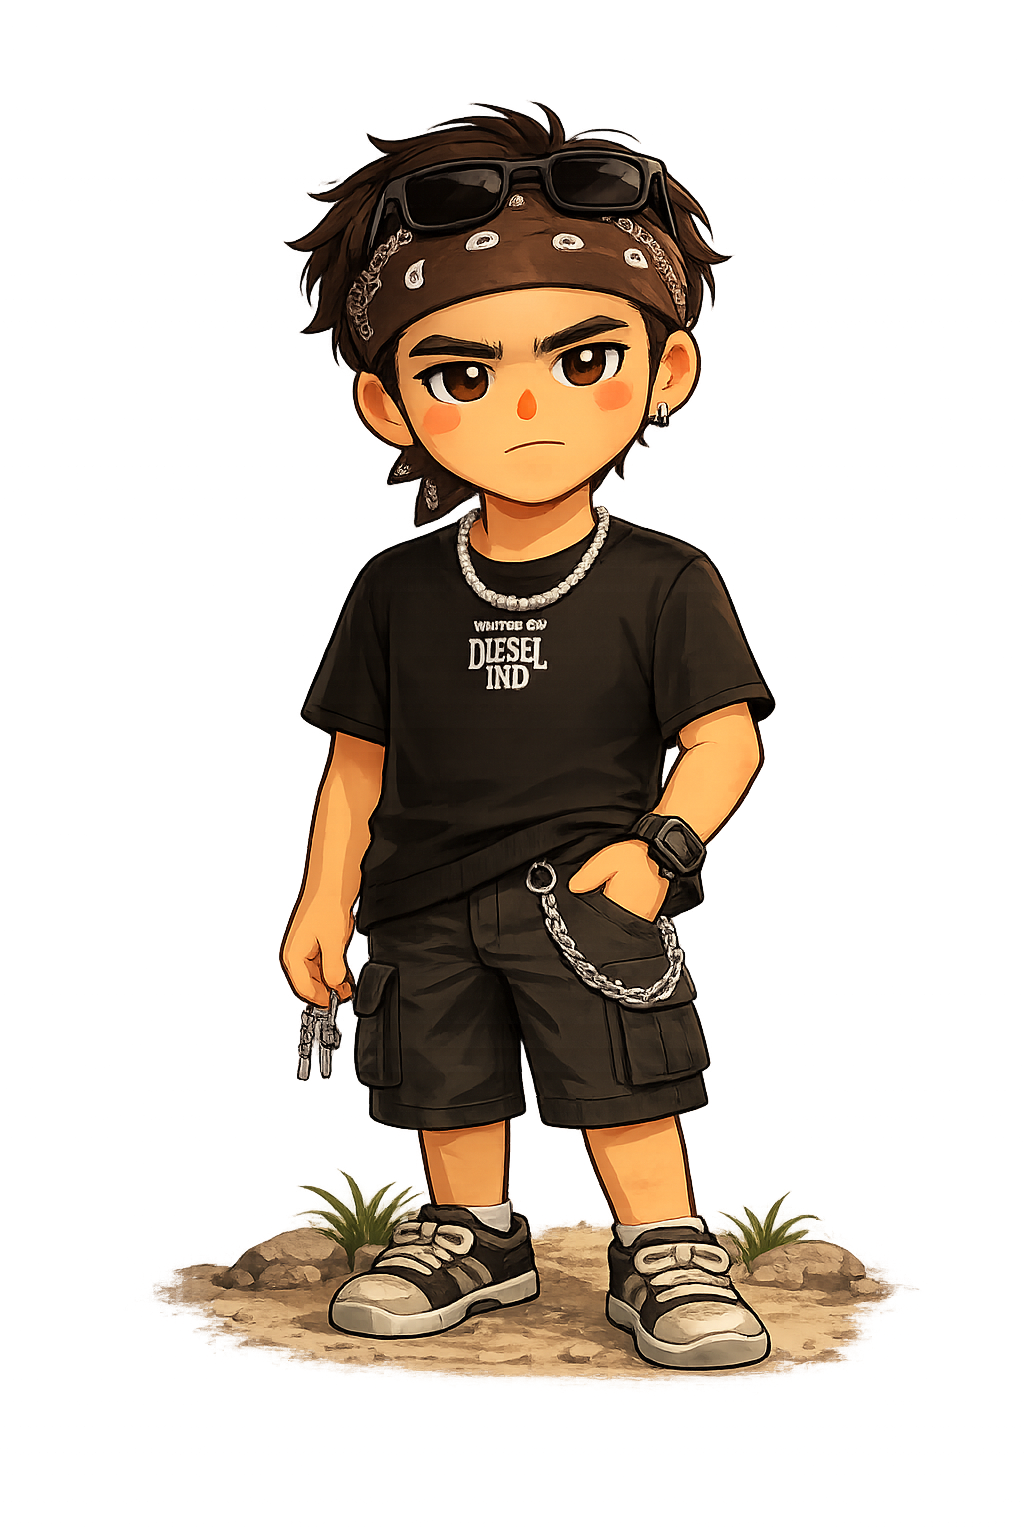
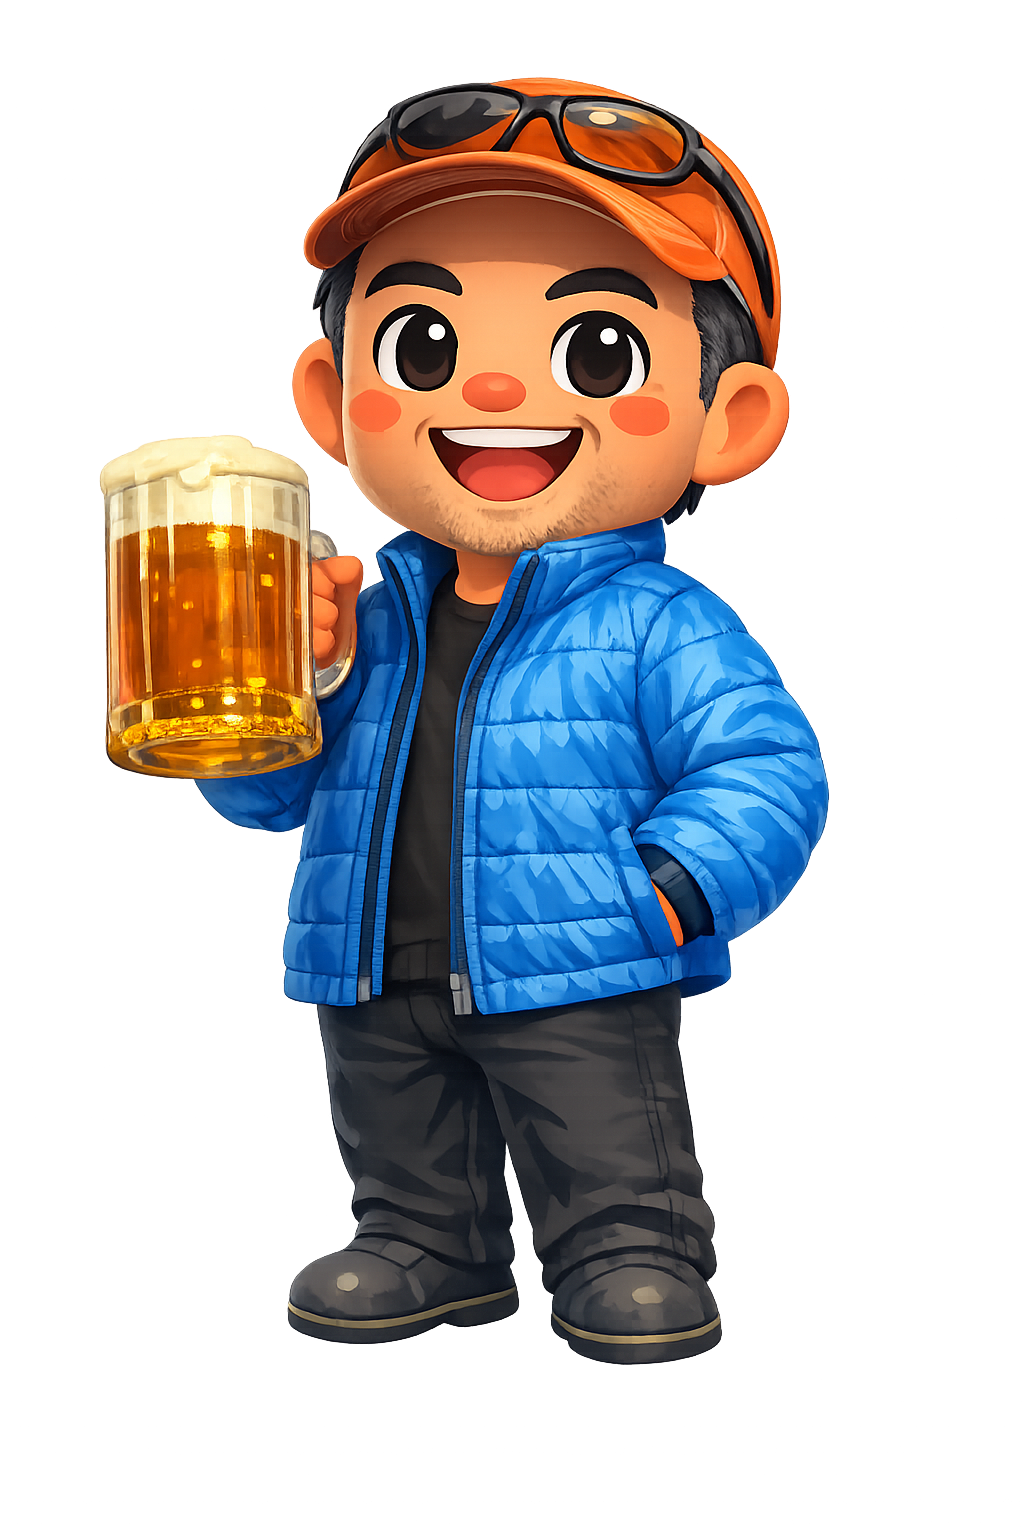
family 6

diff --git a/app/island/page.tsx b/app/island/page.tsx
@@ -32,14 +32,17 @@ const SCENE_IMAGES = [
   "/assets/shared/users/Freda.png",
   "/assets/shared/users/Goodman.png",
   "/assets/shared/users/Grant.png",
+  "/assets/shared/users/Grant Moody.png",
   "/assets/shared/users/Israel.png",
   "/assets/shared/users/JJ.png",
   "/assets/shared/users/Jenn.png",
+  "/assets/shared/users/Jennifer.png",
   "/assets/shared/users/Jillian.png",
   "/assets/shared/users/Josh.png",
   "/assets/shared/users/Joy.png",
   "/assets/shared/users/Kana.png",
   "/assets/shared/users/Matt.png",
+  "/assets/shared/users/Matthew.png",
   "/assets/shared/users/Melayna.png",
   "/assets/shared/users/Newt.png",
   "/assets/shared/users/Rishabh.png",
@@ -48,6 +51,7 @@ const SCENE_IMAGES = [
   "/assets/shared/users/Steven.png",
   "/assets/shared/users/Suhavi.png",
   "/assets/shared/users/Wayne.png",
+  "/assets/shared/users/Will.png",
 ];
 
 // Map names to user images
@@ -67,14 +71,17 @@ const userImageMap: Record<string, string> = {
   freda: "/assets/shared/users/Freda.png",
   goodman: "/assets/shared/users/Goodman.png",
   grant: "/assets/shared/users/Grant.png",
+  "grant moody": "/assets/shared/users/Grant Moody.png",
   israel: "/assets/shared/users/Israel.png",
   jj: "/assets/shared/users/JJ.png",
   jenn: "/assets/shared/users/Jenn.png",
+  jennifer: "/assets/shared/users/Jennifer.png",
   jillian: "/assets/shared/users/Jillian.png",
   josh: "/assets/shared/users/Josh.png",
   joy: "/assets/shared/users/Joy.png",
   kana: "/assets/shared/users/Kana.png",
   matt: "/assets/shared/users/Matt.png",
+  matthew: "/assets/shared/users/Matthew.png",
   melayna: "/assets/shared/users/Melayna.png",
   newt: "/assets/shared/users/Newt.png",
   rishabh: "/assets/shared/users/Rishabh.png",
@@ -83,11 +90,12 @@ const userImageMap: Record<string, string> = {
   steven: "/assets/shared/users/Steven.png",
   suhavi: "/assets/shared/users/Suhavi.png",
   wayne: "/assets/shared/users/Wayne.png",
+  will: "/assets/shared/users/Will.png",
 };
 
 // Map names to gender
-const boyNames = ["alex", "american derek", "brandon", "brian", "caeden", "canadian derek", "garrett", "dennis", "goodman", "grant", "israel", "jj", "josh", "matt", "newt", "rishabh", "sid", "steven", "wayne"];
-const girlNames = ["anastasia", "ariella", "carina", "esha", "freda", "jenn", "jillian", "joy", "kana", "melayna", "sandra", "suhavi"];
+const boyNames = ["alex", "american derek", "brandon", "brian", "caeden", "canadian derek", "garrett", "dennis", "goodman", "grant", "grant moody", "israel", "jj", "josh", "matt", "matthew", "newt", "rishabh", "sid", "steven", "wayne", "will"];
+const girlNames = ["anastasia", "ariella", "carina", "esha", "freda", "jenn", "jennifer", "jillian", "joy", "kana", "melayna", "sandra", "suhavi"];
 
 function getUserImage(name: string): string | null {
   const lowerName = name.toLowerCase().trim();
